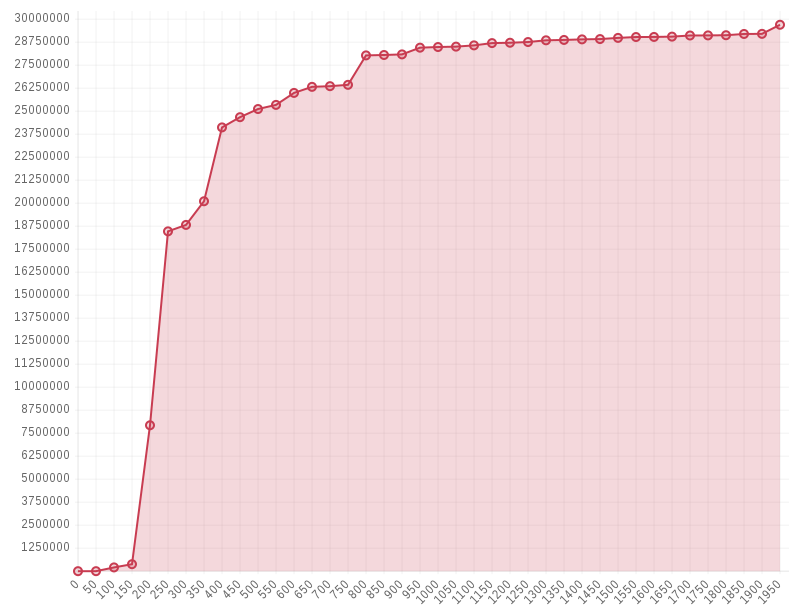
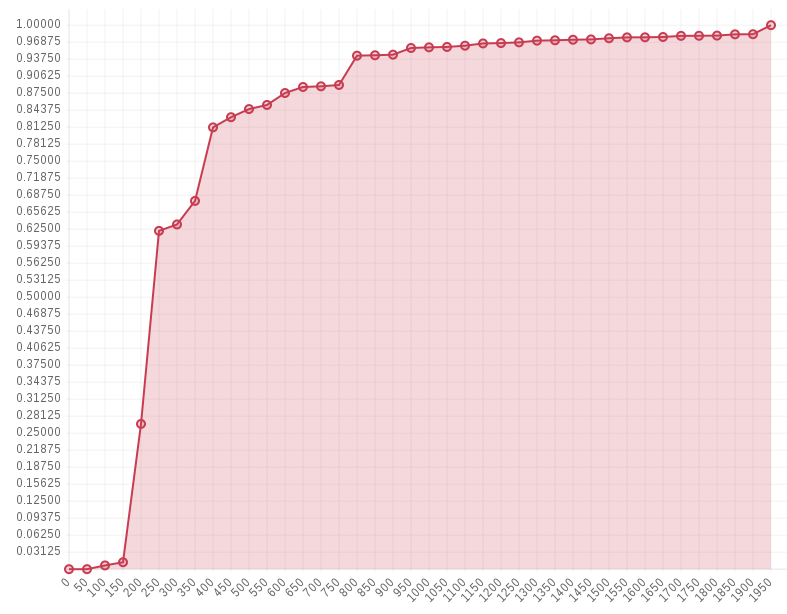
updated numbers and graph for cumulative tx sizes as %

diff --git a/graph/txcat.js b/graph/txcat.js
@@ -4,7 +4,7 @@ var data = {
         {
             fillColor: "rgba(200,60,81, 0.2)",
             strokeColor: "rgba(200,60,81, 1)",
-            data: [0, 19, 203958, 379228, 7929175, 18468159, 18818648, 20104084, 24117634, 24673303, 25117171, 25341210, 25992347, 26322179, 26358551, 26431608, 28031185, 28053421, 28085867, 28451437, 28486582, 28507705, 28575619, 28699778, 28719099, 28757920, 28851430, 28871281, 28902053, 28918828, 28982467, 29030019, 29034512, 29051307, 29112951, 29118038, 29127678, 29196047, 29202559, 29696347]
+            data: [0.0, 6.398093341244969e-07, 0.0068681174825981125, 0.012770190219019194, 0.26700843036350563, 0.6219000269629124, 0.633702455052805, 0.6769884524854185, 0.8121414394841224, 0.83085313489905, 0.8458000238211117, 0.8533443524215285, 0.8752708540212033, 0.8863776746682007, 0.8876024717787679, 0.8900626060168276, 0.9439270426089781, 0.9446758215749567, 0.9457684138725885, 0.9580786822028986, 0.9592621611001515, 0.9599734607088205, 0.9622604086623853, 0.966441360615836, 0.9670919793602897, 0.968399244526608, 0.9715481166757649, 0.9722165827332231, 0.9732528044611009, 0.9738176887547818, 0.9759606796081687, 0.9775619540006049, 0.9777132520710375, 0.9782788098482281, 0.9803546207215318, 0.9805259212521998, 0.9808505403038293, 0.9831528100072376, 0.9833720962379648, 1.0]
         },
     ]
 }
@@ -19,7 +19,7 @@ var data230 = {
         {
             fillColor: "rgba(200,60,81, 0.2)",
             strokeColor: "rgba(200,60,81, 1)",
-            data: [0, 0, 0, 0, 8, 18, 18, 20, 24, 24, 27, 28, 29, 29, 29, 29, 30, 30, 30, 30, 30, 31, 31, 31, 31, 31, 31, 31, 31, 31, 31, 31, 31, 31, 31, 31, 31, 31, 31, 31]
+            data: [0.0, 0.0, 0.0, 0.0, 0.25806451612903225, 0.5806451612903226, 0.5806451612903226, 0.6451612903225806, 0.7741935483870968, 0.7741935483870968, 0.8709677419354839, 0.9032258064516129, 0.9354838709677419, 0.9354838709677419, 0.9354838709677419, 0.9354838709677419, 0.967741935483871, 0.967741935483871, 0.967741935483871, 0.967741935483871, 0.967741935483871, 1.0, 1.0, 1.0, 1.0, 1.0, 1.0, 1.0, 1.0, 1.0, 1.0, 1.0, 1.0, 1.0, 1.0, 1.0, 1.0, 1.0, 1.0, 1.0]
         },
     ]
 }
